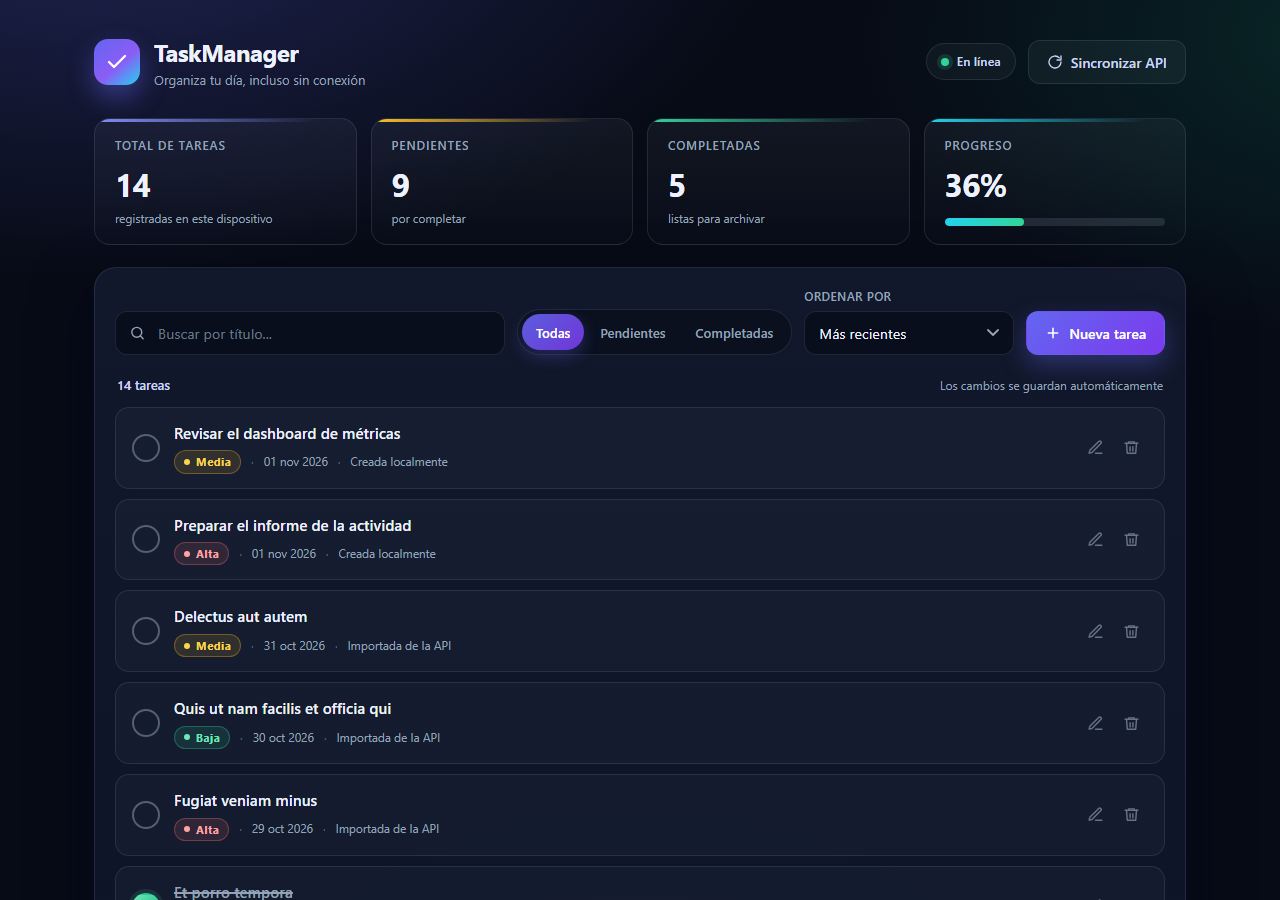
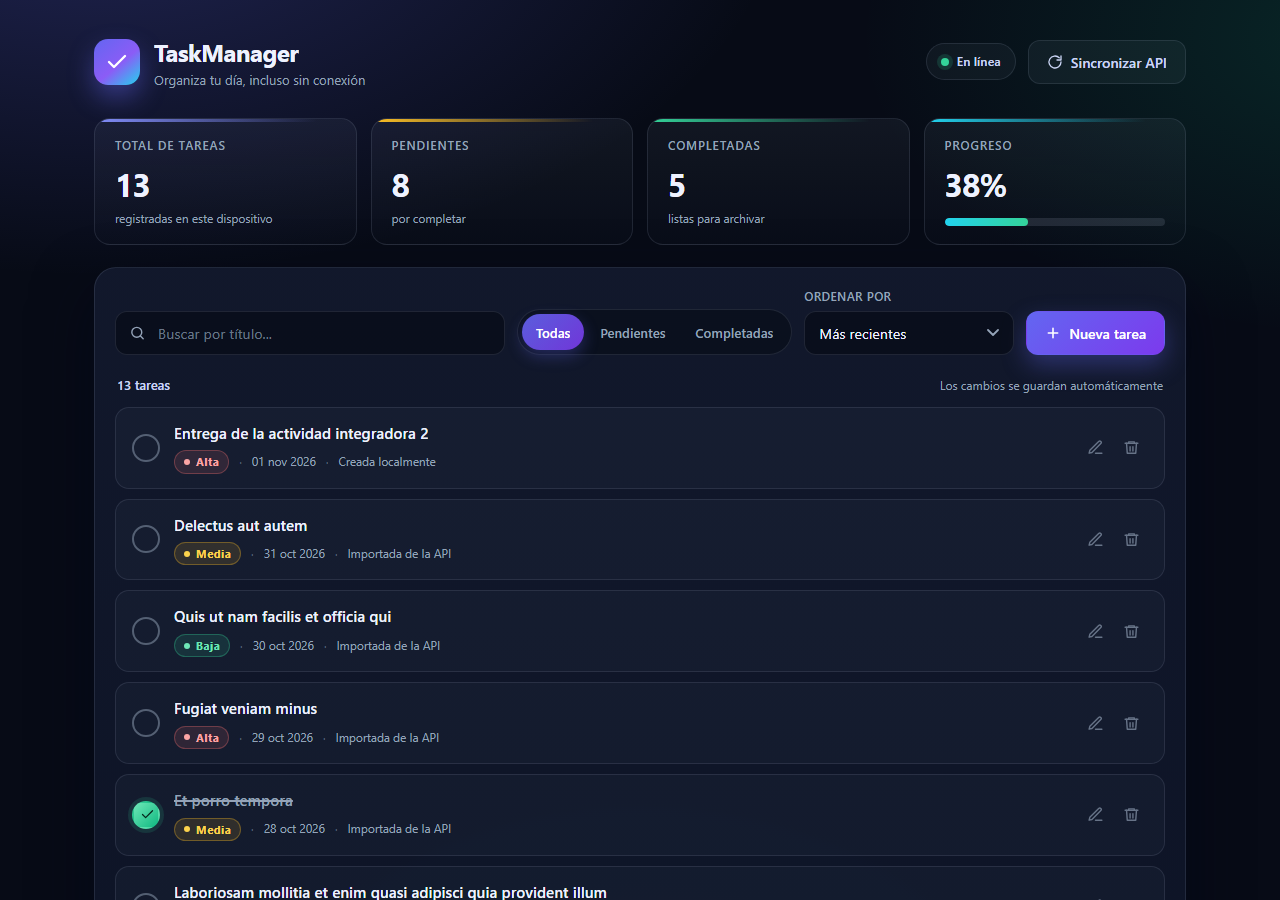
docs: alinear portada y evidencia del informe

diff --git a/informe.html b/informe.html
@@ -3,6 +3,8 @@
 <head>
   <meta charset="UTF-8" />
   <meta name="viewport" content="width=device-width, initial-scale=1.0" />
+  <meta name="author" content="Carlos Villegas" />
+  <meta name="description" content="Actividad Integradora 2: TaskManager con módulos ES6, API REST y persistencia en localStorage." />
   <title>Informe — Actividad Integradora 2 · TaskManager</title>
   <style>
     :root {
@@ -121,7 +123,7 @@
     }
 
     .cover__main {
-      margin-top: 34mm;
+      margin-top: 30mm;
     }
 
     .eyebrow {
@@ -151,7 +153,7 @@
     .cover__rule {
       width: 34mm;
       height: 3px;
-      margin: 9mm 0;
+      margin: 8mm 0;
       background: var(--accent);
       border-radius: 999px;
     }
@@ -179,8 +181,8 @@
     }
 
     .abstract {
-      margin-top: 18mm;
-      padding: 5mm 6mm;
+      margin-top: 14mm;
+      padding: 4mm 6mm;
       border-left: 3px solid var(--accent);
       background: var(--surface);
     }
@@ -197,6 +199,26 @@
       font-size: 9.5pt;
       color: var(--muted);
       text-align: justify;
+    }
+
+    .cover__shot {
+      margin-top: 5mm;
+    }
+
+    .cover__shot img {
+      display: block;
+      width: 100%;
+      height: 35mm;
+      object-fit: cover;
+      object-position: top;
+      border: 1px solid var(--line);
+      border-radius: 2.5mm;
+    }
+
+    .cover__shot figcaption {
+      margin-top: 1mm;
+      font-size: 8pt;
+      color: var(--soft);
     }
 
     /* Content */
@@ -354,9 +376,7 @@
       color: #1e293b;
     }
 
-    .checklist li:last-child {
-      grid-column: 1 / -1;
-    }
+
 
     .checklist code {
       font-size: 8pt;
@@ -437,6 +457,10 @@
           <dt>Repositorio</dt>
           <dd><a href="https://github.com/carlosvillegas2733-rgb/taskmanager-vanilla">github.com/carlosvillegas2733-rgb/taskmanager-vanilla</a></dd>
         </div>
+        <div>
+          <dt>Demo publicada</dt>
+          <dd><a href="https://carlosvillegas2733-rgb.github.io/taskmanager-vanilla/">carlosvillegas2733-rgb.github.io/taskmanager-vanilla</a></dd>
+        </div>
       </dl>
     </div>
 
@@ -454,6 +478,11 @@
         verificación de cada requisito.
       </p>
     </section>
+
+    <figure class="cover__shot">
+      <img src="docs/captures/01-app.png" alt="Vista del panel principal de TaskManager" />
+      <figcaption>TaskManager en ejecución: dashboard, filtros y tareas persistidas.</figcaption>
+    </figure>
 
     <footer class="page__footer">
       <span>Actividad Integradora 2 · TaskManager</span>
@@ -481,6 +510,11 @@
     </p>
 
     <h3>1.2 Aplicación en el proyecto</h3>
+    <p>
+      El flujo es unidireccional: <code>app.js</code> compone la interfaz (<code>ui.js</code>), la
+      interfaz opera sobre el estado (<code>taskStore.js</code>) y el estado persiste mediante
+      <code>storage.js</code>; <code>api.js</code> solo se consume desde <code>app.js</code>.
+    </p>
     <table class="table">
       <thead>
         <tr>
@@ -588,15 +622,16 @@
       <li><span class="check">✔</span><strong>Errores y offline.</strong> <code>try/catch</code>, timeout de 8 s y aviso visual; la app sigue operando sin red.</li>
       <li><span class="check">✔</span><strong>Persistencia.</strong> Clave <code>taskmanager.tasks.v1</code> con <code>JSON.stringify</code> / <code>JSON.parse</code>.</li>
       <li><span class="check">✔</span><strong>Arquitectura modular.</strong> Seis módulos con <code>import</code>/<code>export</code> y sin dependencias externas.</li>
+      <li><span class="check">✔</span><strong>Consola limpia.</strong> Cero errores, excepciones o peticiones fallidas en la verificación automatizada.</li>
     </ul>
 
     <h2 class="section-title">4. Conclusión</h2>
     <p class="conclusion">
       La aplicación cumple los cuatro bloques funcionales y los cuatro puntos de API y persistencia. La
-      arquitectura modular permitió aislar el almacenamiento y la red detrás de interfaces pequeñas, lo
-      que hizo posible probar la lógica sin navegador y detectar dos errores de interfaz que solo
-      aparecían en ejecución. El resultado es una aplicación sin dependencias externas, verificable y
-      mantenible, con un historial de cambios organizado por etapas.
+      arquitectura modular aisló el almacenamiento y la red detrás de interfaces pequeñas, permitió
+      probar la lógica sin navegador y detectó dos errores de interfaz que solo aparecían en ejecución.
+      El resultado no tiene dependencias externas: recargar no duplica registros, las mutaciones
+      persisten y la consola no muestra errores.
     </p>
 
     <footer class="page__footer">

diff --git a/docs/captures/README.md b/docs/captures/README.md
@@ -2,8 +2,8 @@
 
 ## `01-app.png`
 
-Vista principal de la aplicación: dashboard, filtros, ordenamiento y tareas importadas y locales.
-Se usa como vista previa en el `README.md`.
+Vista principal de la aplicación con 13 tareas (12 de JSONPlaceholder y la creada localmente).
+Se usa como vista previa en el `README.md` y en la portada del informe.
 
 ## `02-localstorage.png`
 
